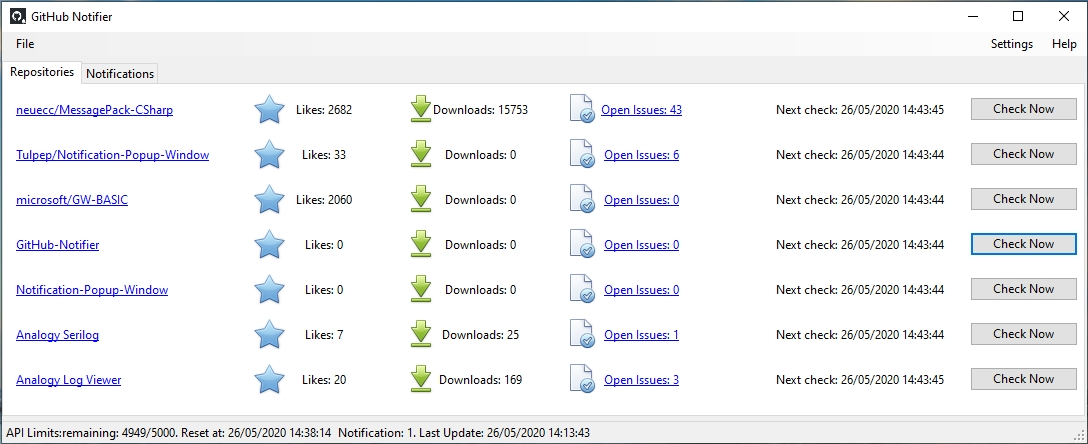
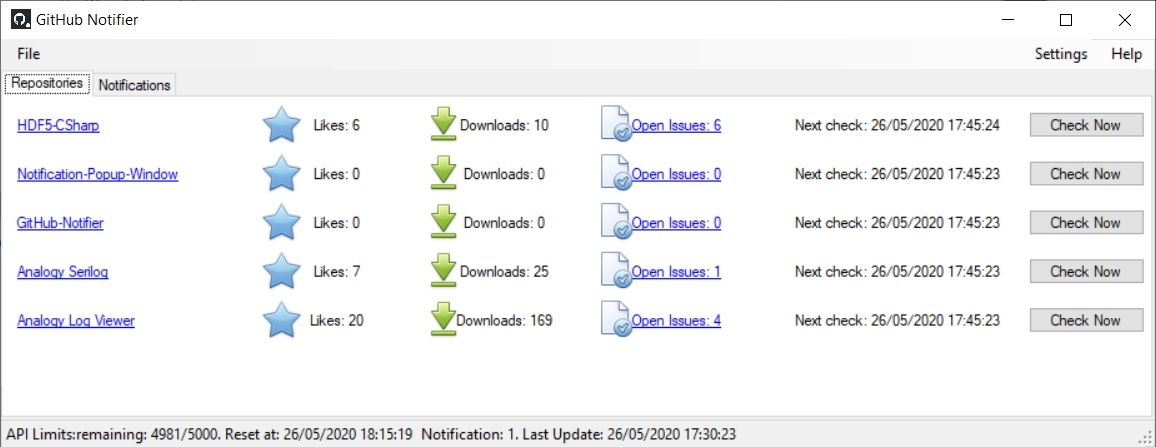
add views. Fix #2

diff --git a/GitHubNotifier/UserControls/RepositoryEntry.Designer.cs b/GitHubNotifier/UserControls/RepositoryEntry.Designer.cs
@@ -29,48 +29,23 @@
         private void InitializeComponent()
         {
             this.components = new System.ComponentModel.Container();
-            this.lblDownloads = new System.Windows.Forms.Label();
-            this.lblLikes = new System.Windows.Forms.Label();
             this.btnCheckNow = new System.Windows.Forms.Button();
             this.lnkLabel = new System.Windows.Forms.LinkLabel();
             this.timerUpdate = new System.Windows.Forms.Timer(this.components);
             this.lblNext = new System.Windows.Forms.Label();
+            this.lblViews = new System.Windows.Forms.Label();
             this.lnklblIssues = new System.Windows.Forms.LinkLabel();
+            this.lblLikes = new System.Windows.Forms.Label();
+            this.lblDownloads = new System.Windows.Forms.Label();
             this.SuspendLayout();
-            // 
-            // lblDownloads
-            // 
-            this.lblDownloads.Anchor = ((System.Windows.Forms.AnchorStyles)((System.Windows.Forms.AnchorStyles.Top | System.Windows.Forms.AnchorStyles.Right)));
-            this.lblDownloads.Image = global::GitHubNotifier.Properties.Resources.Download_32x32;
-            this.lblDownloads.ImageAlign = System.Drawing.ContentAlignment.MiddleLeft;
-            this.lblDownloads.Location = new System.Drawing.Point(366, 1);
-            this.lblDownloads.Margin = new System.Windows.Forms.Padding(2, 0, 2, 0);
-            this.lblDownloads.Name = "lblDownloads";
-            this.lblDownloads.Size = new System.Drawing.Size(134, 36);
-            this.lblDownloads.TabIndex = 0;
-            this.lblDownloads.Text = "Downloads:";
-            this.lblDownloads.TextAlign = System.Drawing.ContentAlignment.MiddleCenter;
-            // 
-            // lblLikes
-            // 
-            this.lblLikes.Anchor = ((System.Windows.Forms.AnchorStyles)((System.Windows.Forms.AnchorStyles.Top | System.Windows.Forms.AnchorStyles.Right)));
-            this.lblLikes.Image = global::GitHubNotifier.Properties.Resources.Feature_32x32;
-            this.lblLikes.ImageAlign = System.Drawing.ContentAlignment.MiddleLeft;
-            this.lblLikes.Location = new System.Drawing.Point(236, 1);
-            this.lblLikes.Margin = new System.Windows.Forms.Padding(2, 0, 2, 0);
-            this.lblLikes.Name = "lblLikes";
-            this.lblLikes.Size = new System.Drawing.Size(126, 36);
-            this.lblLikes.TabIndex = 1;
-            this.lblLikes.Text = "Likes:";
-            this.lblLikes.TextAlign = System.Drawing.ContentAlignment.MiddleCenter;
             // 
             // btnCheckNow
             // 
             this.btnCheckNow.Anchor = ((System.Windows.Forms.AnchorStyles)((System.Windows.Forms.AnchorStyles.Top | System.Windows.Forms.AnchorStyles.Right)));
-            this.btnCheckNow.Location = new System.Drawing.Point(852, 9);
-            this.btnCheckNow.Margin = new System.Windows.Forms.Padding(2, 3, 2, 3);
+            this.btnCheckNow.Location = new System.Drawing.Point(1136, 11);
+            this.btnCheckNow.Margin = new System.Windows.Forms.Padding(3, 4, 3, 4);
             this.btnCheckNow.Name = "btnCheckNow";
-            this.btnCheckNow.Size = new System.Drawing.Size(93, 21);
+            this.btnCheckNow.Size = new System.Drawing.Size(124, 26);
             this.btnCheckNow.TabIndex = 2;
             this.btnCheckNow.Text = "Check Now";
             this.btnCheckNow.UseVisualStyleBackColor = true;
@@ -80,10 +55,9 @@
             // 
             this.lnkLabel.Anchor = ((System.Windows.Forms.AnchorStyles)(((System.Windows.Forms.AnchorStyles.Top | System.Windows.Forms.AnchorStyles.Left) 
             | System.Windows.Forms.AnchorStyles.Right)));
-            this.lnkLabel.Location = new System.Drawing.Point(4, 1);
-            this.lnkLabel.Margin = new System.Windows.Forms.Padding(2, 0, 2, 0);
+            this.lnkLabel.Location = new System.Drawing.Point(5, 1);
             this.lnkLabel.Name = "lnkLabel";
-            this.lnkLabel.Size = new System.Drawing.Size(228, 36);
+            this.lnkLabel.Size = new System.Drawing.Size(192, 44);
             this.lnkLabel.TabIndex = 3;
             this.lnkLabel.TabStop = true;
             this.lnkLabel.Text = "N/A";
@@ -99,42 +73,77 @@
             // lblNext
             // 
             this.lblNext.Anchor = ((System.Windows.Forms.AnchorStyles)((System.Windows.Forms.AnchorStyles.Top | System.Windows.Forms.AnchorStyles.Right)));
-            this.lblNext.Location = new System.Drawing.Point(642, 1);
-            this.lblNext.Margin = new System.Windows.Forms.Padding(2, 0, 2, 0);
+            this.lblNext.Location = new System.Drawing.Point(856, 1);
             this.lblNext.Name = "lblNext";
-            this.lblNext.Size = new System.Drawing.Size(191, 36);
+            this.lblNext.Size = new System.Drawing.Size(255, 44);
             this.lblNext.TabIndex = 4;
             this.lblNext.Text = "Next Check:";
             this.lblNext.TextAlign = System.Drawing.ContentAlignment.MiddleRight;
+            // 
+            // lblViews
+            // 
+            this.lblViews.Anchor = ((System.Windows.Forms.AnchorStyles)((System.Windows.Forms.AnchorStyles.Top | System.Windows.Forms.AnchorStyles.Right)));
+            this.lblViews.Image = global::GitHubNotifier.Properties.Resources.Show_32x32;
+            this.lblViews.ImageAlign = System.Drawing.ContentAlignment.MiddleLeft;
+            this.lblViews.Location = new System.Drawing.Point(743, 2);
+            this.lblViews.Name = "lblViews";
+            this.lblViews.Size = new System.Drawing.Size(164, 44);
+            this.lblViews.TabIndex = 7;
+            this.lblViews.Text = "Views:";
+            this.lblViews.TextAlign = System.Drawing.ContentAlignment.MiddleCenter;
             // 
             // lnklblIssues
             // 
             this.lnklblIssues.Anchor = ((System.Windows.Forms.AnchorStyles)((System.Windows.Forms.AnchorStyles.Top | System.Windows.Forms.AnchorStyles.Right)));
             this.lnklblIssues.Image = global::GitHubNotifier.Properties.Resources.Issue_32x32;
             this.lnklblIssues.ImageAlign = System.Drawing.ContentAlignment.MiddleLeft;
-            this.lnklblIssues.Location = new System.Drawing.Point(504, 1);
-            this.lnklblIssues.Margin = new System.Windows.Forms.Padding(2, 0, 2, 0);
+            this.lnklblIssues.Location = new System.Drawing.Point(549, 1);
             this.lnklblIssues.Name = "lnklblIssues";
-            this.lnklblIssues.Size = new System.Drawing.Size(134, 36);
+            this.lnklblIssues.Size = new System.Drawing.Size(188, 44);
             this.lnklblIssues.TabIndex = 6;
             this.lnklblIssues.TabStop = true;
             this.lnklblIssues.Text = "Open Issues:";
             this.lnklblIssues.TextAlign = System.Drawing.ContentAlignment.MiddleCenter;
             this.lnklblIssues.LinkClicked += new System.Windows.Forms.LinkLabelLinkClickedEventHandler(this.lnklblIssues_LinkClicked);
             // 
+            // lblLikes
+            // 
+            this.lblLikes.Anchor = ((System.Windows.Forms.AnchorStyles)((System.Windows.Forms.AnchorStyles.Top | System.Windows.Forms.AnchorStyles.Right)));
+            this.lblLikes.Image = global::GitHubNotifier.Properties.Resources.Feature_32x32;
+            this.lblLikes.ImageAlign = System.Drawing.ContentAlignment.MiddleLeft;
+            this.lblLikes.Location = new System.Drawing.Point(203, 1);
+            this.lblLikes.Name = "lblLikes";
+            this.lblLikes.Size = new System.Drawing.Size(151, 44);
+            this.lblLikes.TabIndex = 1;
+            this.lblLikes.Text = "Likes:";
+            this.lblLikes.TextAlign = System.Drawing.ContentAlignment.MiddleCenter;
+            // 
+            // lblDownloads
+            // 
+            this.lblDownloads.Anchor = ((System.Windows.Forms.AnchorStyles)((System.Windows.Forms.AnchorStyles.Top | System.Windows.Forms.AnchorStyles.Right)));
+            this.lblDownloads.Image = global::GitHubNotifier.Properties.Resources.Download_32x32;
+            this.lblDownloads.ImageAlign = System.Drawing.ContentAlignment.MiddleLeft;
+            this.lblDownloads.Location = new System.Drawing.Point(360, 1);
+            this.lblDownloads.Name = "lblDownloads";
+            this.lblDownloads.Size = new System.Drawing.Size(183, 44);
+            this.lblDownloads.TabIndex = 0;
+            this.lblDownloads.Text = "Downloads:";
+            this.lblDownloads.TextAlign = System.Drawing.ContentAlignment.MiddleCenter;
+            // 
             // RepositoryEntry
             // 
-            this.AutoScaleDimensions = new System.Drawing.SizeF(6F, 13F);
+            this.AutoScaleDimensions = new System.Drawing.SizeF(8F, 16F);
             this.AutoScaleMode = System.Windows.Forms.AutoScaleMode.Font;
+            this.Controls.Add(this.lblViews);
             this.Controls.Add(this.lnklblIssues);
             this.Controls.Add(this.lblNext);
             this.Controls.Add(this.lnkLabel);
             this.Controls.Add(this.btnCheckNow);
             this.Controls.Add(this.lblLikes);
             this.Controls.Add(this.lblDownloads);
-            this.Margin = new System.Windows.Forms.Padding(2, 3, 2, 3);
+            this.Margin = new System.Windows.Forms.Padding(3, 4, 3, 4);
             this.Name = "RepositoryEntry";
-            this.Size = new System.Drawing.Size(947, 39);
+            this.Size = new System.Drawing.Size(1263, 48);
             this.Load += new System.EventHandler(this.RepositoryEntry_Load);
             this.ResumeLayout(false);
 
@@ -149,5 +158,6 @@
         private System.Windows.Forms.Timer timerUpdate;
         private System.Windows.Forms.Label lblNext;
         private System.Windows.Forms.LinkLabel lnklblIssues;
+        private System.Windows.Forms.Label lblViews;
     }
 }

diff --git a/GitHubNotifier/UserControls/RepositoryEntry.cs b/GitHubNotifier/UserControls/RepositoryEntry.cs
@@ -31,14 +31,47 @@ namespace GitHubNotifier.UserControls
             lblDownloads.Text = "Downloads: " + Repo.LastTotalDownloads;
             lblLikes.Text = "Likes: " + Repo.LastTotalStars;
             lnklblIssues.Text = "Open Issues: " + Repo.OpenIssues;
+            lblViews.Text = "Views: " + Repo.LastTotalViews;
             await Check(true);
         }
         public async Task Check(bool forceCheck)
         {
             await CheckDownloads(forceCheck);
             await CheckStarsAndIssues(forceCheck);
+            await CheckTraffic(forceCheck);
             Repo.LastChecked = DateTime.Now;
 
+        }
+
+        private async Task CheckTraffic(bool forceCheck)
+        {
+            var lastCheck = forceCheck ? DateTime.MinValue : Repo.LastChecked;
+            var (newData, views) = await GitHubUtils.GetAsync<GithubTraffic>(Repo.RepoApiTrafficViewsUrl,
+                UserSettingsManager.Instance.GitHubToken, lastCheck);
+            if (!newData)
+                return;
+            if (Repo.LastTotalViews != views.Total)
+            {
+                PopupMessage msg = new PopupMessage
+                {
+                    Caption = Repo.DisplayName,
+                    Text = "Views: " + views.Total,
+                    Image = Properties.Resources.Show_32x32
+                };
+                using (var popupNotifier = new NotificationWindow.PopupNotifier())
+                {
+                    {
+                        popupNotifier.TitleText = msg.Caption;
+                        popupNotifier.ContentText = msg.Text;
+                        popupNotifier.IsRightToLeft = false;
+                        popupNotifier.Image = msg.Image;
+                    }
+                    popupNotifier.Popup();
+                }
+            }
+
+            lblViews.Text = "Views: " + views.Total;
+            Repo.LastTotalViews = views.Total;
         }
 
         private async Task CheckDownloads(bool forceCheck)
@@ -55,7 +88,7 @@ namespace GitHubNotifier.UserControls
                 PopupMessage msg = new PopupMessage
                 {
                     Caption = Repo.DisplayName,
-                    Text = lblDownloads.Text,
+                    Text = "Downloads: " + downloads,
                     Image = Properties.Resources.Download_32x32
                 };
                 using (var popupNotifier = new NotificationWindow.PopupNotifier())

diff --git a/GitHubNotifier/Properties/Resources.Designer.cs b/GitHubNotifier/Properties/Resources.Designer.cs
@@ -123,6 +123,26 @@ namespace GitHubNotifier.Properties {
         /// <summary>
         ///   Looks up a localized resource of type System.Drawing.Bitmap.
         /// </summary>
+        public static System.Drawing.Bitmap Show_16x16 {
+            get {
+                object obj = ResourceManager.GetObject("Show_16x16", resourceCulture);
+                return ((System.Drawing.Bitmap)(obj));
+            }
+        }
+        
+        /// <summary>
+        ///   Looks up a localized resource of type System.Drawing.Bitmap.
+        /// </summary>
+        public static System.Drawing.Bitmap Show_32x32 {
+            get {
+                object obj = ResourceManager.GetObject("Show_32x32", resourceCulture);
+                return ((System.Drawing.Bitmap)(obj));
+            }
+        }
+        
+        /// <summary>
+        ///   Looks up a localized resource of type System.Drawing.Bitmap.
+        /// </summary>
         public static System.Drawing.Bitmap Suggestion_32x32 {
             get {
                 object obj = ResourceManager.GetObject("Suggestion_32x32", resourceCulture);

diff --git a/GitHubNotifier/DataTypes/RepositorySettings.cs b/GitHubNotifier/DataTypes/RepositorySettings.cs
@@ -11,6 +11,7 @@ namespace GitHubNotifier.DataTypes
         public string RepoUrl => $"https://github.com/{RepoName}";
         public string RepoIssueUrl => $"https://github.com/{RepoName}/issues";
         public string RepoApiUrl => $"https://api.github.com/repos/{RepoName}";
+        public string RepoApiTrafficViewsUrl => $"https://api.github.com/repos/{RepoName}/traffic/views";
         public string RepoApiReleasesUrl => $"https://api.github.com/repos/{RepoName}/releases";
         
 
@@ -19,6 +20,8 @@ namespace GitHubNotifier.DataTypes
 
         public int LastTotalDownloads { get; set; }
         public int LastTotalStars { get; set; }
+        public int LastTotalViews { get; set; }
+        
         public int OpenIssues { get; set; }
         public bool Enabled { get; set; }
 

diff --git a/GitHubNotifier/DataTypes/GithubTraffic.cs b/GitHubNotifier/DataTypes/GithubTraffic.cs
@@ -1,0 +1,22 @@
+using Newtonsoft.Json;
+using System;
+
+namespace GitHubNotifier.DataTypes
+{
+    [Serializable]
+    [JsonObject]
+    public class GithubTrafficView
+    {
+        [JsonProperty("count")] public int Count { get; set; }
+        [JsonProperty("uniques")] public int Uniques { get; set; }
+        [JsonProperty("timestamp")] public DateTime Timestamp { get; set; }
+    }
+
+    [Serializable]
+    [JsonObject]
+    public class GithubTraffic
+    {
+        [JsonProperty("count")] public int Total { get; set; }
+        [JsonProperty("views")] public GithubTrafficView[] Views { get; set; }
+    }
+}
